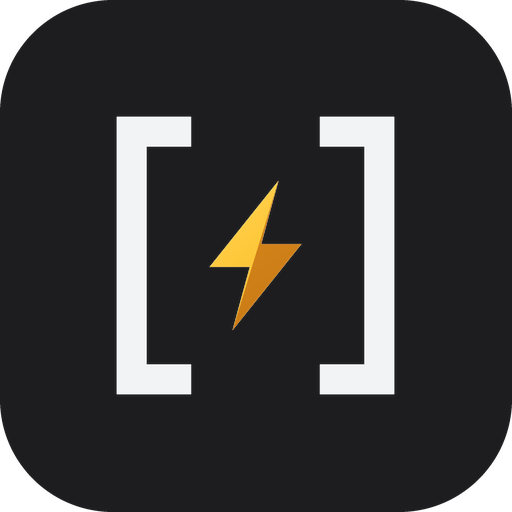
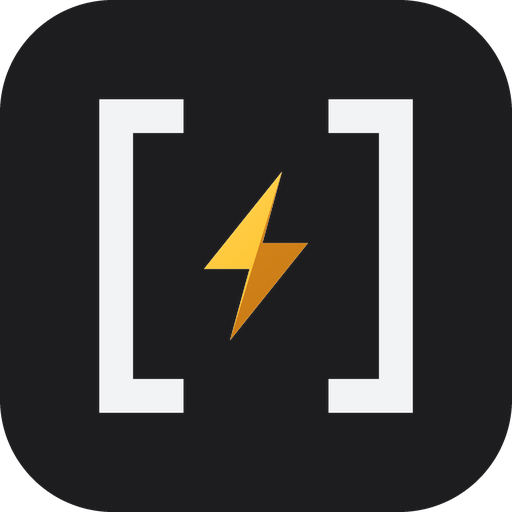
Tighten the lockup and make the exports match it
Three complaints, one cause behind two of them.

The header mark was small and sat too far from the word. Part of that gap was
never a gap: the tile's own padding put empty graphite between the brackets and
the text, so closing the flex gap alone would not have fixed it. The mark now
fills 70% of its tile instead of 62%, the tile is 40px, and the gap is 8.

The exported logos read as a different logo because they were. They were built
without the graphite tile the site always shows, and set in Geist with the
weight faked by an outward stroke, against a header that uses Inter at a real
700. Both are fixed at the source: Inter is instanced out of the project's own
woff2 at wght 700 and 500 and committed alongside the build script, so an export
is the same lettering a reader sees rather than a lookalike.

The lockup now runs on two ratios taken off the header — tile 2.75x the cap
height, gap 0.55x — and both sides were measured rather than eyeballed: 2.75 and
0.55 in the exported PNG, 2.75 and 0.55 in the rendered DOM.

The footer showed the bolt-only artwork next to a header showing the full mark,
which read as two logos. It takes the same mark at 28px — the same 2.75 ratio
against its smaller type, and 56 physical pixels on any retina screen, well
clear of the size where the brackets close up.

diff --git a/src/components/layout/Header.tsx b/src/components/layout/Header.tsx
@@ -91,10 +91,10 @@ export default function Header() {
               window.scrollTo({ top: 0, behavior: 'smooth' });
             }
           }}
-          className="flex items-center gap-2 sm:gap-2.5 group"
+          className="flex items-center gap-1.5 sm:gap-2 group"
         >
-          <div className="relative w-7 h-7 sm:w-9 sm:h-9 rounded-lg overflow-hidden shrink-0">
-            <Image src="/brand-mark.png" alt={SITE_NAME} width={36} height={36} className="w-full h-full object-cover" loading="eager" />
+          <div className="relative w-8 h-8 sm:w-10 sm:h-10 rounded-lg overflow-hidden shrink-0">
+            <Image src="/brand-mark.png" alt={SITE_NAME} width={40} height={40} className="w-full h-full object-cover" loading="eager" />
           </div>
           <span className="font-bold text-sm sm:text-xl tracking-tight whitespace-nowrap">
             {SITE_BRAND}<span className="text-muted">{SITE_ZONE}</span>

diff --git a/src/components/layout/Footer.tsx b/src/components/layout/Footer.tsx
@@ -39,9 +39,9 @@ export default async function Footer() {
           {/* Brand — extra bottom margin on mobile so the first accordion
               below doesn't crowd the follow button */}
           <div className="mb-6 lg:mb-0">
-            <Link href={`/${locale}`} className="inline-flex items-center gap-2 mb-3">
-              <Image src="/brand-mark-small.png" alt="" aria-hidden width={24} height={24}
-                     className="w-6 h-6 rounded shrink-0" />
+            <Link href={`/${locale}`} className="inline-flex items-center gap-1.5 mb-3">
+              <Image src="/brand-mark.png" alt="" aria-hidden width={28} height={28}
+                     className="w-7 h-7 rounded-lg shrink-0" />
               <span className="font-semibold text-sm">
                 {SITE_BRAND}<span className="text-muted">{SITE_ZONE}</span>
               </span>
